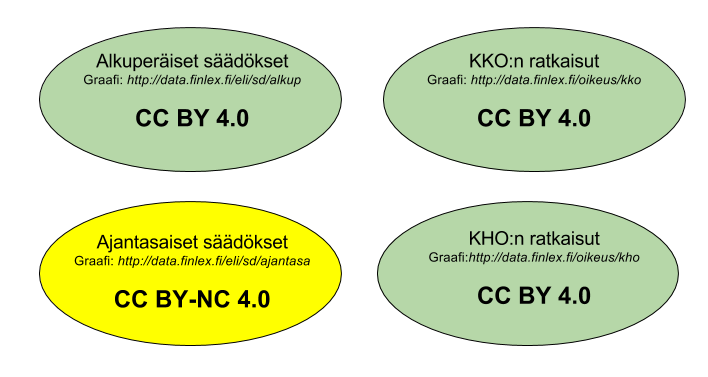
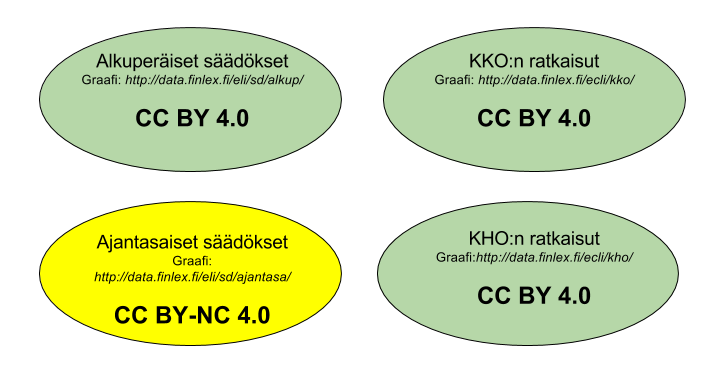
Release RDF as N-quads files; Update documentation

diff --git a/src/sf-docs/partials/en/doc/legislation.html b/src/sf-docs/partials/en/doc/legislation.html
@@ -26,9 +26,9 @@ As part of the ELI ontology, metadata fields are defined for each level. These w
 <!-- SFL -->
 <h2>SFL ontology</h2>
 <p>
-SFL ontology (Semantic Finlex Legislation) is an extension to ELI ontology used in the Semantic Finlex service. In addition to different language and content format versions SFL defines classes for different temporal versions of statutes and sections of law. Therefore, SFL divides <em>eli:LegalResource</em> class to four subclasses that are as follows</p>
+SFL ontology (Semantic Finlex Legislation) is an extension to ELI ontology used in the Semantic Finlex service. In addition to different language and content format versions SFL defines classes for different temporal versions of statutes and sections of law. Therefore, SFL divides <em>eli:LegalResource</em> class to four subclasses as follows:</p>
 <ul>
-  <li><em>sfl:Statute</em> (statute). Statute at a conceptual level eg. Criminal Code 39/1889</li>
+  <li><em>sfl:Statute</em> (statute). Statute at a conceptual level eg. Criminal Code (39/1889)</li>
   <li><em>sfl:SectionOfALaw</em> (section of a law). Section of law at conceptual level eg. Criminal Code 39/1889 Chapter 1 Section 2</li>
   <li><em>sfl:StatuteVersion</em> (statute version). Statute at a specific point in time, eg. Criminal Code 39/1889 as it was on 1.1.2016</li>
   <li><em>sfl:SectionOfALawVersion</em> (section of a law version). Section of law at a specific point in time, eg. Criminal Code 39/1889 Chapter 1 Section 2 as it was on 1.1.2016</li>
@@ -40,11 +40,11 @@ The relationship between a statute and a statute version is expressed with prope
 <h2>Structure of the document</h2>
 <img class="schema" src="/sf-docs/images/data_model/statute_parts.png"/>
 <p>Fig. 4: <i>Structure of the document</i></p>
-<p>The structure of the document is modeled at the time level because the structure of a document may vary between different temporal versions. For example new subsections may be added to sections or a chapter might be relocated from a part of the statute to another part. The hierarchical structure of a statute is presented in figure 4.</p>
+<p>The structure of a document varies between its temporal versions. For example individual parts might be added, removed, changed or relocated. The hierarchical structure of a statute is presented in figure 4.</p>
 <hr/>
 
 <h2>URIs</h2>
-<p>The instructions on how to build URIs for the documents can be found on a <a href="#/en/uris">separate page</a>.</p>
+<p>Documentation of the URIs are formed can be found on a <a href="#/en/uris">separate page</a>.</p>
 <hr/>
 
 <h2>Class properties</h2>
@@ -109,7 +109,7 @@ The relationship between a statute and a statute version is expressed with prope
       </td>
       <td>[0,1]</td>
       <td>URI</td>
-      <td>is / is not in force</td>
+      <td>is not in force</td>
     </tr>
   </tbody>
 </table>
@@ -400,7 +400,7 @@ The relationship between a statute and a statute version is expressed with prope
   <tr>
     <td><em>eli:is_embodied_by</em></td>
     <td><em>eli:Format</em></td>
-    <td>1</td>
+    <td>[2,3]</td>
     <td>URI</td>
     <td>content format</td>
   </tr>

diff --git a/src/sf-docs/partials/en/doc/uris.html b/src/sf-docs/partials/en/doc/uris.html
@@ -90,9 +90,19 @@ One of the key publication principles of Linked Data is to provide unique URI id
   </thead>
   <tbody>
     <tr>
-      <td>http://data.finlex.fi/oikeus</td>
+      <td>http://data.finlex.fi/ecli</td>
       <td>List of judgments</td>
       <td></td>
+    </tr>
+    <tr>
+      <td>http://data.finlex.fi/ecli/{court}</td>
+      <td>List of judgments by court</td>
+      <td><a href="http://data.finlex.fi/ecli/kko">Example</a></td>
+    </tr>
+    <tr>
+      <td>http://data.finlex.fi/ecli/{court}/{year}</td>
+      <td>List of judgments by court and year</td>
+      <td><a href="http://data.finlex.fi/ecli/kko/2000">Example</a></td>
     </tr>
     <tr>
       <td>http://data.finlex.fi/ecli/{court)/{year}/{id}</td>
@@ -125,12 +135,12 @@ One of the key publication principles of Linked Data is to provide unique URI id
   </thead>
   <tbody>
     <tr>
-      <td>http://data.finlex.fi/eli/sd/alkup</td>
+      <td>http://data.finlex.fi/eli/sd/alkup/</td>
       <td>Contains the <i>original</i> versions of the statutes</td>
     </tr>
     <tr>
-      <td>http://data.finlex.fi/eli/sd/ajantasa</td>
-      <td>Contains the <i>consolidated</i> (amended) versions of the statutes (Note: CC-BY-NC license)</td>
+      <td>http://data.finlex.fi/eli/sd/ajantasa/</td>
+      <td>Contains the <i>consolidated</i> versions of the statutes (Note: CC-BY-NC license)</td>
     </tr>
   </tbody>
 </table>
@@ -147,11 +157,11 @@ One of the key publication principles of Linked Data is to provide unique URI id
   </thead>
   <tbody>
     <tr>
-      <td>http://data.finlex.fi/oikeus/kho</td>
+      <td>http://data.finlex.fi/ecli/kho/</td>
       <td>Judgments of the Supreme Administrative Court</td>
     </tr>
     <tr>
-      <td>http://data.finlex.fi/oikeus/kko</td>
+      <td>http://data.finlex.fi/ecli/kko/</td>
       <td>Judgments of the Supreme Court</td>
     </tr>
   </tbody>
@@ -169,9 +179,8 @@ The graph contains for example RDF resources representing the Parliament and the
 </ul>
 <h3>RDF schemas</h3>
 <ul>
-  <li><b>SFL (Semantic Finlex Legislation)</b>: http://data.finlex.fi/schema/sfl</li>
-  <li><b>SFCL (Semantic Finlex Case Law)</b>: http://data.finlex.fi/schema/sfcl</li>
-  <li><b>SFL (Semantic Finlex Legislation)</b>: http://data.finlex.fi/schema/common</li>
+  <li><b>SFL (Semantic Finlex Legislation)</b>: http://data.finlex.fi/schema/sfl/</li>
+  <li><b>SFCL (Semantic Finlex Case Law)</b>: http://data.finlex.fi/schema/sfcl/</li>
 </ul>
 
 <hr/>

diff --git a/src/sf-docs/partials/en/doc/caselaw.html b/src/sf-docs/partials/en/doc/caselaw.html
@@ -1,17 +1,17 @@
 <h1>Case law</h1>
 <h2>RDF data model</h2>
-<p>To model the judgments ECLI standard (European Case Law Identifier) has been used along with SFCL ontology (Semantic Finlex Case Law), a custom metadata model developed as part of the project. SFCL applies FRBR model in a similar manner as ELI/SFL in the case of legislation. However, judgments do not have different temporal versions and therefore the ontology contains only the following three levels:</p>
+<p>To model the judgments, the ECLI (European Case Law Identifier) metadata schema has been used along with SFCL ontology (Semantic Finlex Case Law), a custom metadata model developed as part of the Semantic Finlex project. SFCL applies FRBR model in a similar manner as ELI and SFL in the case of legislation. However, only one temporal version of each judgment exists and therefore the FRBR model of the SFCL ontology comprises of only the following three classes:</p>
 <ul>
-    <li><em>sfcl:Judgment</em> (work): judgment at an conceptual level</li>
+    <li><em>sfcl:Judgment</em> (work): judgment as such</li>
     <li><em>sfcl:Expression</em> (language version): language version of a judgment</li>
     <li><em>sfcl:Format</em> (content format): judgment in a specific content format</li>
 </ul>
 <hr/>
 <h2>URIs</h2>
-<p>The instructions on how to build URIs for the documents can be found on a <a href="#/fen/uris">separate page</a>.</p>
+<p>The instructions on how to build URIs for the documents can be found on a <a href="#/en/uris">separate page</a>.</p>
 <hr/>
 <h2>Class properties</h2>
-<p>The metadata model conforms to Dublin Core definitions of the ECLI standard.</p>
+<p>The metadata model comprises the Dublin Core properties included in the ECLI standard.</p>
 <h3><em>sfcl:Judgment</em>  (judgment)</h3>
 <table class="table table-striped">
   <thead>
@@ -81,7 +81,7 @@
       <td>type of the decision</td>
     </tr>
     <tr>
-      <td><em>sfcl:isRealizedBy<em></td>
+      <td><em>sfcl:isRealizedBy</em></td>
       <td><em>sfcl:Expression</em></td>
       <td>[0,n]</td>
       <td>URI</td>
@@ -146,8 +146,6 @@
 </table>
 <hr/>
 <h3><em>sfcl:Format</em> (content format)</h3>
-<h5>Yläluokka: frbr:Manifestation</h5>
-<table>
 <table class="table table-striped">
   <thead>
     <tr>

diff --git a/src/sf-docs/partials/en/doc/subjectindexing.html b/src/sf-docs/partials/en/doc/subjectindexing.html
@@ -1,7 +1,7 @@
 <h1>Automatic annotation</h1>
 <p>Semantic Finlex contains updated statutes that have been automatically annotated. This means that keywords describing the text of each statute have been determined using external juridical vocabularies. These included the Finnish Collaborative Holistic Ontology KOKO (Finto), the Termbase of Jurisprudence (the Bank of Finnish Terminology in Arts and Sciences) and DBpedia.</p>
 <p>The annotation is saved in a separate graph:</p>
-<pre>http://data.finlex.fi/annotation/sd</pre>
+<pre>http://data.finlex.fi/annotation/sd/</pre>
 <p>with the following feature:</p>
 <pre>http://data.finlex.fi/schema/common/autRecSubject</pre>
 <p>Each feature contains a URI that refers to one of the external vocabularies used in the service. During the annotation process, keywords have been limited based on their frequency.</p>

diff --git a/src/server/ctrl/fileCtrl.js b/src/server/ctrl/fileCtrl.js
@@ -10,12 +10,12 @@ const self = {
         _.each(files, function(file) {
           var stats = fs.statSync('dist/data/xml/'+req.param('dataset')+'/'+file);
           if (stats) {
-            files_.push({name: file, mtime: moment(stats.mtime).format("DD.MM.YYYY")});
+            files_.push({link: '/data/xml/'+req.param('dataset')+'/'+file, name: file, mtime: moment(stats.mtime).format("DD.MM.YYYY")});
           }
           else
             return res.send(404);
         });
-        res.render('file-list', {dataset: req.param('dataset'), title: self.getDatasetName(req.param('dataset'))+' (XML)', files: files_});
+        res.render('file-list', {title: self.getDatasetName(req.param('dataset'))+' (XML)', files: files_});
       } else {
         return res.send(404);
       }

diff --git a/src/sf-docs/partials/fi/doc/aineistojenlataus.html b/src/sf-docs/partials/fi/doc/aineistojenlataus.html
@@ -1,4 +1,11 @@
 <h1>Aineistojen lataaminen paketteina</h2>
+<h2>RDF-tiedostot ZIP-paketteina (N-Quads-formaatti)</h2>
+<ul>
+  <li><a href="http://data.finlex.fi/data/rdf/ajantasa-nq.zip">Ajantasainen lainsäädäntö</a> (CC-BY-NC)</li>
+  <li><a href="http://data.finlex.fi/data/rdf/alkup-nq.zip">Alkuperäiset säädökset</a> (CC-BY)</li>
+  <li><a href="http://data.finlex.fi/data/rdf/kko-nq.zip">Korkeimman oikeuden (KKO) ratkaisut</a> (CC-BY)</li>
+  <li><a href="http://data.finlex.fi/data/rdf/kho-nq.zip">Korkeimman hallinto-oikeuden (KHO) ratkaisut</a> (CC-BY)</li>
+</ul>
 <h2>Alkuperäiset XML-tiedostot ZIP-paketteina</h2>
 <ul>
   <li><a href="http://data.finlex.fi/data/xml/asd">Alkuperäiset säädökset</a> (CC-BY)</li>

diff --git a/src/sf-docs/partials/en/doc/download.html b/src/sf-docs/partials/en/doc/download.html
@@ -1,4 +1,11 @@
 <h1>Downloading of datasets</h2>
+<h2>RDF files as ZIP packages (N-quads format)</h2>
+<ul>
+  <li><a href="http://data.finlex.fi/data/rdf/ajantasa-nq.zip">Consolidated legislation</a> (CC-BY-NC)</li>
+  <li><a href="http://data.finlex.fi/data/rdf/alkup-nq.zip">Original statutes</a> (CC-BY)</li>
+  <li><a href="http://data.finlex.fi/data/rdf/kko-nq.zip">Judgments of the Supreme Court</a> (CC-BY)</li>
+  <li><a href="http://data.finlex.fi/data/rdf/kho-nq.zip">Judgments of the Supreme Administrative Court</a> (CC-BY)</li>
+</ul>
 <h2>Original XML files as ZIP packages</h2>
 <ul>
   <li><a href="http://data.finlex.fi/data/xml/asd">Original statutes</a> (CC-BY)</li>

diff --git a/src/server/index.js b/src/server/index.js
@@ -65,6 +65,7 @@ app.use('/sf-docs/partials', express.static(__dirname+'/../sf-docs/partials'));
 app.use('/sf-docs/images', express.static(__dirname+'/../sf-docs/images'));
 app.use('/sf-docs', express.static(__dirname+'/../sf-docs/dist'));
 app.use('/tagclouds', express.static(__dirname+'/../../tagclouds'));
+app.use('/data/rdf', express.static(__dirname+'/../data/rdf'));
 app.use('/data/xml/asd', express.static(__dirname+'/../data/xml/asd'));
 app.use('/data/xml/kko', express.static(__dirname+'/../data/xml/kko'));
 app.use('/data/xml/kho', express.static(__dirname+'/../data/xml/kho'));

diff --git a/src/sf-docs/partials/en/doc/rest-api.html b/src/sf-docs/partials/en/doc/rest-api.html
@@ -28,9 +28,14 @@
       <td>language of the content</td>
     </tr>
     <tr>
-      <td><em>content</em></td>
+      <td><em>format</em></td>
       <td>txt, html</td>
       <td>format of the content</td>
+    </tr>
+    <tr>
+      <td><em>query</em></td>
+      <td>query string</td>
+      <td>text search</td>
     </tr>
     <tr>
       <td><em>pretty</em></td>
@@ -83,7 +88,7 @@
       <td>language of the content</td>
     </tr>
     <tr>
-      <td><em>content</em></td>
+      <td><em>format</em></td>
       <td>txt, html</td>
       <td>format of the content</td>
     </tr>
